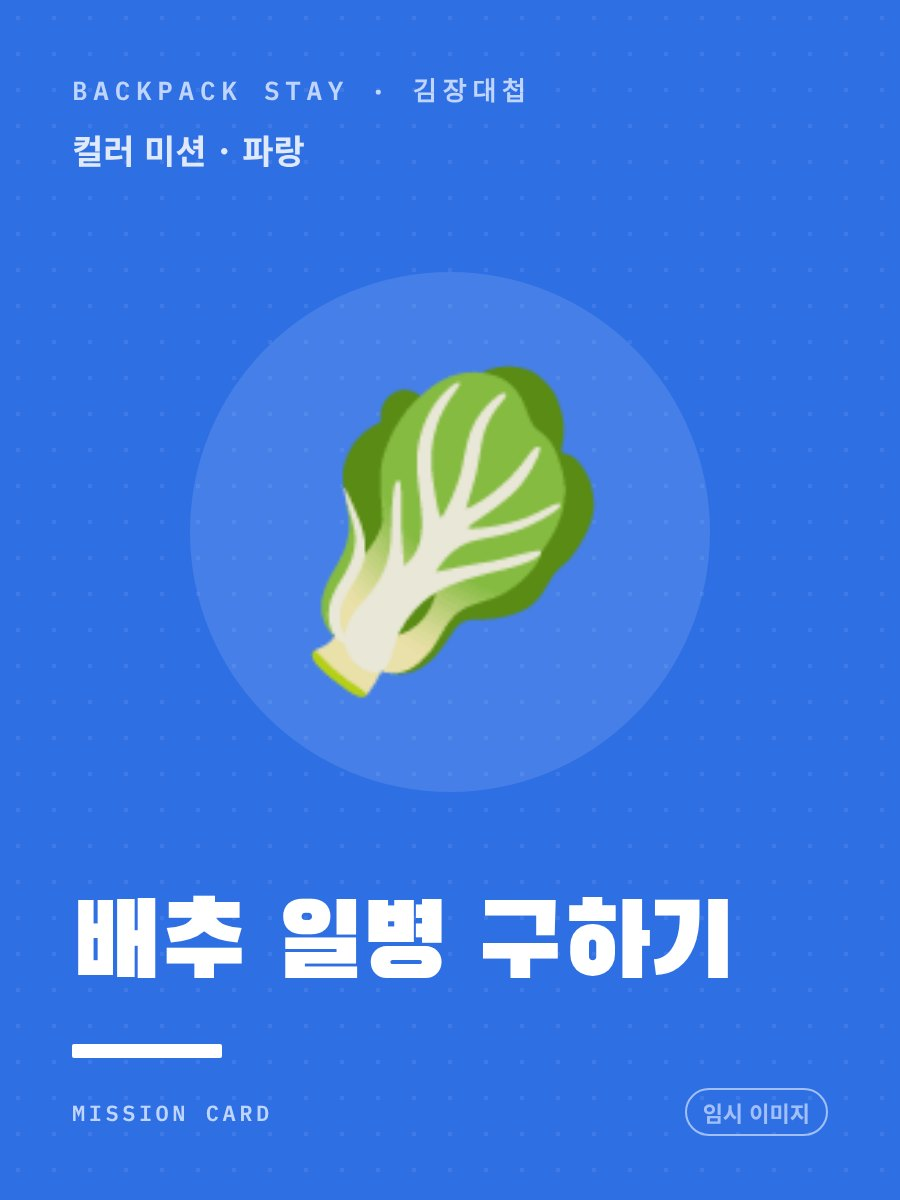
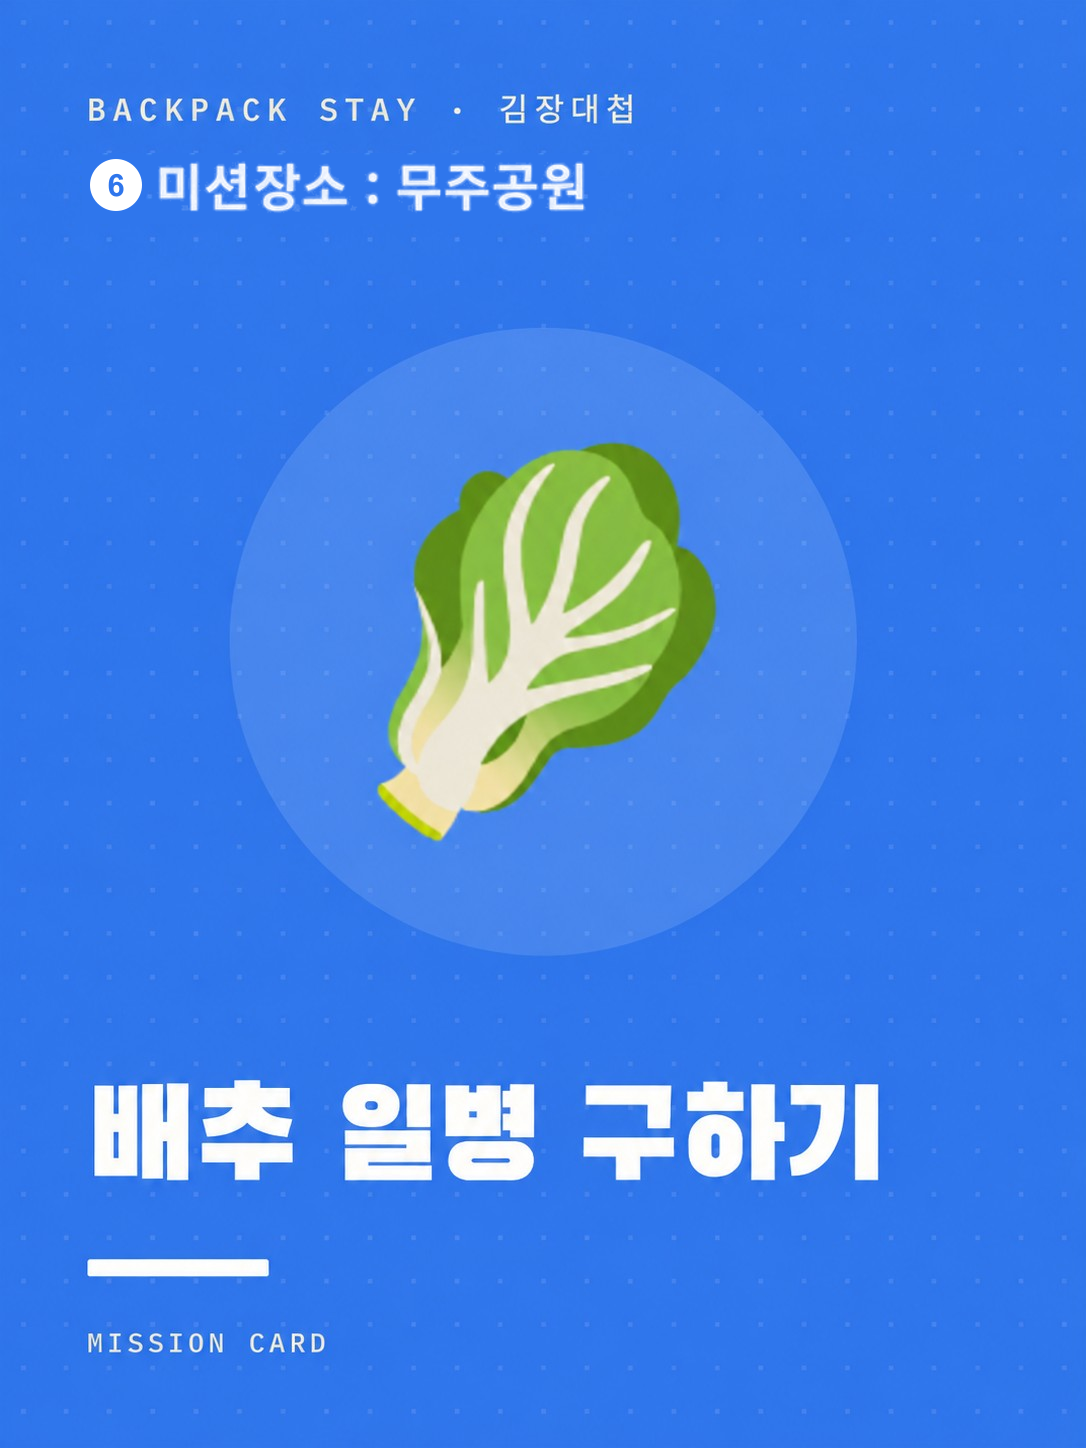
운영진 페이지 미션카드 갱신: 색깔 카드 5장 번호·글씨 확대본, 특별미션 카드 3장 교체, 무·양파 카드 삭제, 미션맵 교체

diff --git a/index_admin.html b/index_admin.html
@@ -279,8 +279,6 @@ dialog::backdrop{background:rgba(0,0,0,.45)}
   var MAP_SPECIAL = [
     { e: "🌶", n: "고추", m: '힐록에 가서 "사장님 김치추가" 주문해 보세요. 숨은미션이 나올지도~', img: "mission_pepper.jpg" },
     { e: "🫚", n: "생강", m: "생강 헤는 밤", img: "mission_ginger.jpg" },
-    { h: MU_SVG, n: "무", m: "쇼미 더 김치", img: "mission_radish.jpg" },
-    { e: "🧅", n: "양파", m: "너의 목소리가 보여", img: "mission_onion.jpg" },
     { e: "🥬", n: "배추", m: "김치맨을 찾아라!", img: "mission_cabbage.jpg" }
   ];
   function emoHtml(s) { return '<span class="emo">' + (s.h || esc(s.e)) + "</span>"; }
